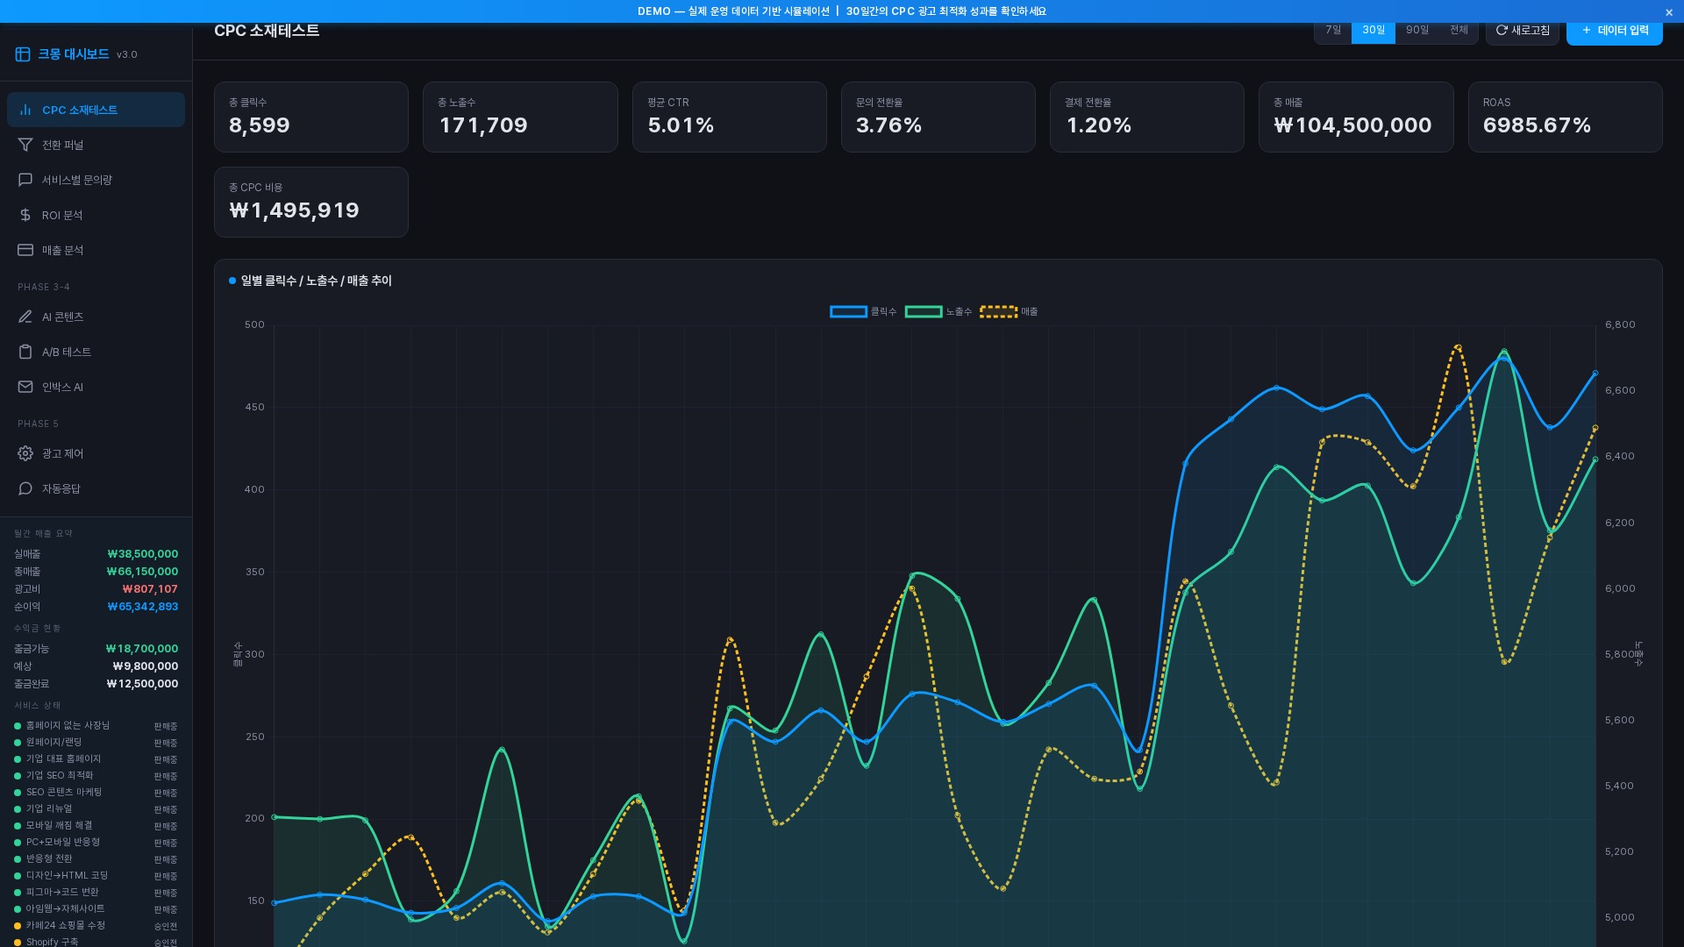
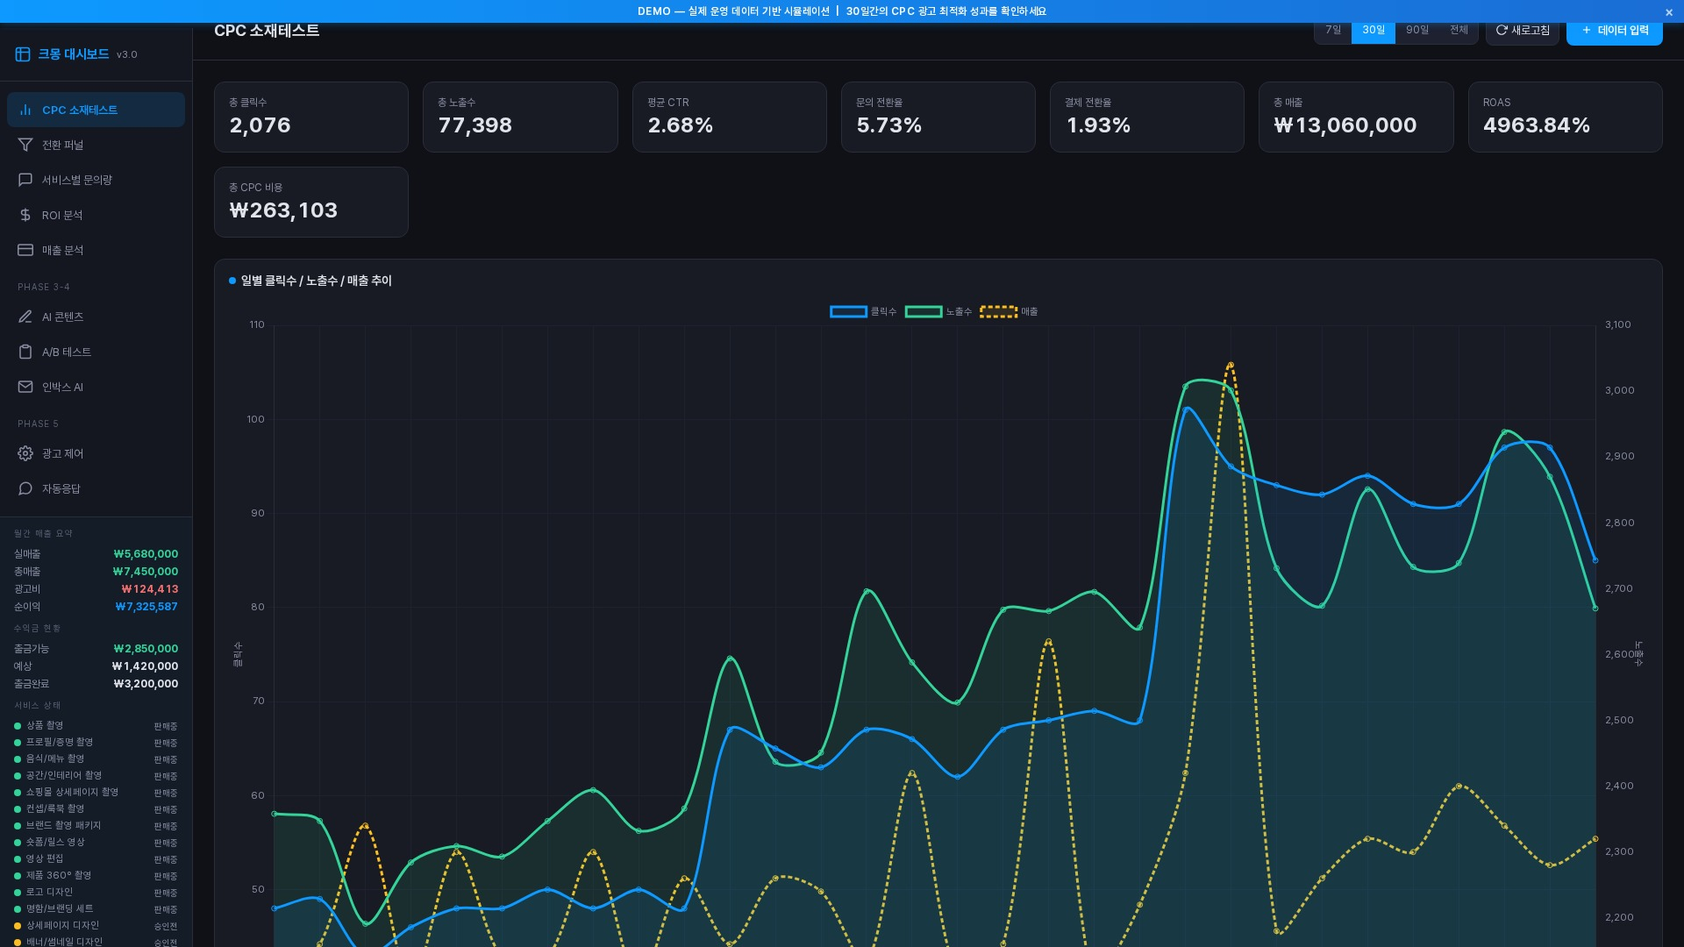
fix(kmong-dashboard): 촬영/디자인 서비스 20개 + 현실적 수치로 변경
- 홈페이지/SEO → 촬영/디자인 카테고리로 전면 교체
  (상품촬영, 음식촬영, 로고디자인, 상세페이지, 숏폼 등 20개)
- 현실적 크몽 프리랜서 수치: 월매출 1,300만, CTR 2.7%, CPC 26만
- 문의 내용도 촬영/디자인 맥락으로 변경
- 소재 변경 이력도 촬영 소재 A/B 테스트 내용으로
- 주문 금액: 3만~120만원 (촬영/디자인 실제 단가)

diff --git a/portfolio-sites/kmong-dashboard/index-demo.html b/portfolio-sites/kmong-dashboard/index-demo.html
@@ -1242,50 +1242,50 @@ const _dt = (daysAgo, h=10, m=30) => { const d = new Date(_today); d.setDate(d.g
 // === Product definitions ===
 const DEMO_DATA = {};
 DEMO_DATA.kmong_products = [
-  { product_id:'homepage_basic', product_name:'홈페이지 없는 사장님', category:'홈페이지', status:'active' },
-  { product_id:'onepage', product_name:'원페이지/랜딩', category:'홈페이지', status:'active' },
-  { product_id:'corporate_site', product_name:'기업 대표 홈페이지', category:'홈페이지', status:'active' },
-  { product_id:'seo_basic', product_name:'기업 SEO 최적화', category:'SEO', status:'active' },
-  { product_id:'seo_content', product_name:'SEO 콘텐츠 마케팅', category:'SEO', status:'active' },
-  { product_id:'renewal', product_name:'기업 리뉴얼', category:'홈페이지', status:'active' },
-  { product_id:'mobile_fix', product_name:'모바일 깨짐 해결', category:'반응형', status:'active' },
-  { product_id:'responsive', product_name:'PC+모바일 반응형', category:'반응형', status:'active' },
-  { product_id:'responsive_convert', product_name:'반응형 전환', category:'반응형', status:'active' },
-  { product_id:'design_html', product_name:'디자인→HTML 코딩', category:'퍼블리싱', status:'active' },
-  { product_id:'figma_html', product_name:'피그마→코드 변환', category:'퍼블리싱', status:'active' },
-  { product_id:'imweb_html', product_name:'아임웹→자체사이트', category:'퍼블리싱', status:'active' },
-  { product_id:'cafe24_fix', product_name:'카페24 쇼핑몰 수정', category:'쇼핑몰', status:'active' },
-  { product_id:'shopify_build', product_name:'Shopify 구축', category:'쇼핑몰', status:'active' },
-  { product_id:'maintenance', product_name:'월 유지보수', category:'유지보수', status:'active' },
-  { product_id:'speed_optimize', product_name:'속도 최적화', category:'유지보수', status:'active' },
-  { product_id:'portal_map', product_name:'포털/지도 등록', category:'마케팅', status:'active' },
-  { product_id:'blog_marketing', product_name:'블로그 마케팅', category:'마케팅', status:'active' },
-  { product_id:'insta_full', product_name:'인스타 A to Z', category:'SNS', status:'active' },
-  { product_id:'insta_core', product_name:'인스타 핵심 패키지', category:'SNS', status:'active' },
+  { product_id:'product_photo', product_name:'상품 촬영', category:'촬영', status:'active' },
+  { product_id:'profile_photo', product_name:'프로필/증명 촬영', category:'촬영', status:'active' },
+  { product_id:'food_photo', product_name:'음식/메뉴 촬영', category:'촬영', status:'active' },
+  { product_id:'interior_photo', product_name:'공간/인테리어 촬영', category:'촬영', status:'active' },
+  { product_id:'detail_photo', product_name:'쇼핑몰 상세페이지 촬영', category:'촬영', status:'active' },
+  { product_id:'concept_photo', product_name:'컨셉/룩북 촬영', category:'촬영', status:'active' },
+  { product_id:'brand_package', product_name:'브랜드 촬영 패키지', category:'촬영', status:'active' },
+  { product_id:'shortform', product_name:'숏폼/릴스 영상', category:'영상', status:'active' },
+  { product_id:'video_edit', product_name:'영상 편집', category:'영상', status:'active' },
+  { product_id:'product_3d', product_name:'제품 360° 촬영', category:'영상', status:'active' },
+  { product_id:'logo_design', product_name:'로고 디자인', category:'디자인', status:'active' },
+  { product_id:'namecard', product_name:'명함/브랜딩 세트', category:'디자인', status:'active' },
+  { product_id:'detail_design', product_name:'상세페이지 디자인', category:'디자인', status:'active' },
+  { product_id:'banner_design', product_name:'배너/썸네일 디자인', category:'디자인', status:'active' },
+  { product_id:'sns_design', product_name:'SNS 콘텐츠 디자인', category:'디자인', status:'active' },
+  { product_id:'package_design', product_name:'패키지/라벨 디자인', category:'디자인', status:'active' },
+  { product_id:'catalog', product_name:'카탈로그/브로슈어', category:'인쇄', status:'active' },
+  { product_id:'poster', product_name:'포스터/전단지', category:'인쇄', status:'active' },
+  { product_id:'retouch', product_name:'사진 보정/리터칭', category:'보정', status:'active' },
+  { product_id:'composite', product_name:'합성/배경제거', category:'보정', status:'active' },
 ];
 
 // === Generate CPC daily data (30 days x 14 products) ===
 const _productCpcProfile = {
-  homepage_basic: { baseImp: 480, baseCtr: 2.8, cpcUnit: 180, trend: 2.2 },
-  onepage: { baseImp: 420, baseCtr: 3.2, cpcUnit: 200, trend: 2.0 },
-  corporate_site: { baseImp: 350, baseCtr: 2.5, cpcUnit: 260, trend: 1.8 },
-  seo_basic: { baseImp: 280, baseCtr: 2.4, cpcUnit: 250, trend: 1.6 },
-  seo_content: { baseImp: 220, baseCtr: 2.1, cpcUnit: 230, trend: 1.4 },
-  renewal: { baseImp: 310, baseCtr: 2.6, cpcUnit: 220, trend: 1.9 },
-  mobile_fix: { baseImp: 260, baseCtr: 3.8, cpcUnit: 150, trend: 1.5 },
-  responsive: { baseImp: 380, baseCtr: 3.4, cpcUnit: 170, trend: 2.1 },
-  responsive_convert: { baseImp: 200, baseCtr: 2.9, cpcUnit: 190, trend: 1.3 },
-  design_html: { baseImp: 190, baseCtr: 2.3, cpcUnit: 210, trend: 1.1 },
-  figma_html: { baseImp: 170, baseCtr: 2.7, cpcUnit: 195, trend: 1.2 },
-  imweb_html: { baseImp: 160, baseCtr: 2.2, cpcUnit: 230, trend: 1.0 },
-  cafe24_fix: { baseImp: 180, baseCtr: 2.8, cpcUnit: 160, trend: 1.2 },
-  shopify_build: { baseImp: 240, baseCtr: 3.0, cpcUnit: 280, trend: 1.7 },
-  maintenance: { baseImp: 150, baseCtr: 2.0, cpcUnit: 140, trend: 0.9 },
-  speed_optimize: { baseImp: 200, baseCtr: 3.5, cpcUnit: 175, trend: 1.4 },
-  portal_map: { baseImp: 220, baseCtr: 3.1, cpcUnit: 130, trend: 1.5 },
-  blog_marketing: { baseImp: 300, baseCtr: 2.9, cpcUnit: 115, trend: 1.8 },
-  insta_full: { baseImp: 260, baseCtr: 3.3, cpcUnit: 120, trend: 1.6 },
-  insta_core: { baseImp: 210, baseCtr: 2.8, cpcUnit: 110, trend: 1.3 },
+  product_photo:  { baseImp: 180, baseCtr: 1.8, cpcUnit: 150, trend: 1.4 },
+  profile_photo:  { baseImp: 120, baseCtr: 2.1, cpcUnit: 130, trend: 1.2 },
+  food_photo:     { baseImp: 160, baseCtr: 2.0, cpcUnit: 160, trend: 1.3 },
+  interior_photo: { baseImp: 90,  baseCtr: 1.6, cpcUnit: 180, trend: 1.0 },
+  detail_photo:   { baseImp: 200, baseCtr: 2.3, cpcUnit: 140, trend: 1.5 },
+  concept_photo:  { baseImp: 70,  baseCtr: 1.5, cpcUnit: 200, trend: 0.8 },
+  brand_package:  { baseImp: 60,  baseCtr: 1.3, cpcUnit: 220, trend: 0.7 },
+  shortform:      { baseImp: 140, baseCtr: 2.5, cpcUnit: 120, trend: 1.6 },
+  video_edit:     { baseImp: 110, baseCtr: 1.9, cpcUnit: 140, trend: 1.1 },
+  product_3d:     { baseImp: 50,  baseCtr: 1.4, cpcUnit: 190, trend: 0.6 },
+  logo_design:    { baseImp: 150, baseCtr: 1.7, cpcUnit: 170, trend: 1.2 },
+  namecard:       { baseImp: 100, baseCtr: 2.2, cpcUnit: 110, trend: 1.0 },
+  detail_design:  { baseImp: 170, baseCtr: 2.0, cpcUnit: 150, trend: 1.3 },
+  banner_design:  { baseImp: 130, baseCtr: 2.4, cpcUnit: 100, trend: 1.4 },
+  sns_design:     { baseImp: 140, baseCtr: 2.6, cpcUnit: 90,  trend: 1.5 },
+  package_design: { baseImp: 80,  baseCtr: 1.5, cpcUnit: 180, trend: 0.9 },
+  catalog:        { baseImp: 60,  baseCtr: 1.3, cpcUnit: 200, trend: 0.7 },
+  poster:         { baseImp: 90,  baseCtr: 1.8, cpcUnit: 120, trend: 1.0 },
+  retouch:        { baseImp: 160, baseCtr: 2.8, cpcUnit: 80,  trend: 1.4 },
+  composite:      { baseImp: 100, baseCtr: 2.2, cpcUnit: 90,  trend: 1.1 },
 };
 
 DEMO_DATA.kmong_cpc_daily = [];
@@ -1293,8 +1293,8 @@ for (let day = 29; day >= 0; day--) {
   const date = _d(day);
   const phase = day >= 20 ? 0 : day >= 10 ? 1 : 2; // 0=early, 1=mid, 2=optimized
   for (const [pid, prof] of Object.entries(_productCpcProfile)) {
-    // CTR improves over time: phase0 = base, phase1 = +60%, phase2 = +120-180%
-    const ctrMult = phase === 0 ? 1.0 : phase === 1 ? 1.6 : 2.2 + Math.random() * 0.6;
+    // CTR improves over time: phase0 = base, phase1 = +25%, phase2 = +50-70%
+    const ctrMult = phase === 0 ? 1.0 : phase === 1 ? 1.25 : 1.5 + Math.random() * 0.2;
     const impVariance = 0.7 + Math.random() * 0.6;
     const impressions = Math.round(prof.baseImp * impVariance * (1 + phase * 0.1));
     const ctr = +(prof.baseCtr * ctrMult * (0.85 + Math.random() * 0.3)).toFixed(2);
@@ -1314,13 +1314,14 @@ const _surnames = ['김','이','박','최','정','강','조','윤','장','임','
 const _names = ['민수','지영','현우','수진','영호','미경','태희','준호','소연','동훈','지혜','상우','은지','민재','혜진','성호','유진','재현','보라','도윤'];
 const _inquiryTypes = ['message','order_inquiry','custom_request'];
 const _inquiryNotes = [
-  '홈페이지 제작 비용이 어느 정도인지 문의드립니다','기존 사이트 리뉴얼 견적 부탁합니다','반응형으로 전환하고 싶습니다',
-  '급합니다! 모바일에서 사이트가 깨져요','SEO 최적화 상담 원합니다','원페이지 랜딩 제작 문의','카페24 쇼핑몰 수정 가능한가요?',
-  '디자인 시안을 HTML로 코딩해주실 수 있나요?','아임웹에서 자체 사이트로 이전하고 싶어요','월 유지보수 비용 문의',
-  '인스타그램 운영 대행 비용 궁금합니다','포털 지도 등록 대행 가능한가요?','기업 홈페이지 리뉴얼 문의',
-  '결제하려고 합니다 진행 가능한가요?','빠른 작업 가능하신지요? 급한 건입니다','가격이 좀 비싼 것 같은데 조정 가능할까요?',
-  '포트폴리오 보고 연락드립니다','지인 소개로 연락드립니다 제작 문의','추가 수정 가능한지 문의드립니다',
-  '완벽하게 만들어주셔서 감사합니다! 추가 작업 문의','반응형 홈페이지 견적 부탁드립니다','모바일 최적화 작업 비용이 궁금합니다',
+  '상품 촬영 10컷 기준 비용이 궁금합니다','쇼핑몰 상세페이지용 촬영 견적 부탁드려요','음식 메뉴 촬영 가능할까요? 카페 운영중입니다',
+  '프로필 사진 촬영 예약하고 싶습니다','인테리어 촬영 가능한 날짜가 언제인가요?','로고 디자인 의뢰하려고 합니다',
+  '명함이랑 간판 디자인 같이 하면 할인되나요?','상세페이지 디자인 포트폴리오 보고 문의드립니다','배너 5장 제작 비용 문의합니다',
+  '인스타 피드 디자인 월 단위로 가능한가요?','제품 사진 배경제거 50장 견적 부탁드립니다','숏폼 영상 촬영+편집 같이 가능하신가요?',
+  '카탈로그 8페이지 제작 문의드립니다','패키지 디자인 시안 몇 개 나오나요?','브랜드 촬영 패키지가 뭐가 포함되는지 궁금합니다',
+  '결제하려고 합니다 바로 진행 가능한가요?','급한 건인데 이번주 내 촬영 가능하신지요?','가격 조정 가능할까요? 물량이 많습니다',
+  '포트폴리오 보고 연락드립니다 너무 좋아요','지인 소개로 왔습니다 상품촬영 문의','이전 작업 너무 만족했어요 추가 의뢰하려구요',
+  '사진 보정만 따로 맡길 수 있나요?','360도 회전 촬영 가능하신가요?','전단지 양면 디자인 급하게 필요합니다',
 ];
 const _productIds = DEMO_DATA.kmong_products.map(p => p.product_id);
 const _statuses = ['pending','quoted','paid'];
@@ -1333,8 +1334,8 @@ let _inqId = 1;
 for (let day = 29; day >= 0; day--) {
   // More inquiries in later days (optimization brings WAY more traffic)
   const phase = day >= 20 ? 0 : day >= 10 ? 1 : 2;
-  const countBase = phase === 0 ? 5 : phase === 1 ? 9 : 14;
-  const count = countBase + Math.floor(Math.random() * 4);
+  const countBase = phase === 0 ? 2 : phase === 1 ? 3 : 5;
+  const count = countBase + Math.floor(Math.random() * 2);
   for (let i = 0; i < count; i++) {
     const h = 8 + Math.floor(Math.random() * 12);
     const m = Math.floor(Math.random() * 60);
@@ -1364,14 +1365,13 @@ for (let day = 29; day >= 0; day--) {
 
 // === Generate orders (75 orders) ===
 const _orderAmounts = {
-  homepage_basic: [500000,800000,1200000], onepage: [350000,500000,800000], corporate_site: [1500000,2500000,3500000],
-  seo_basic: [800000,1200000,1800000], seo_content: [600000,1000000,1500000],
-  renewal: [800000,1200000,2000000], mobile_fix: [300000,500000,800000], responsive: [600000,1000000,1500000],
-  responsive_convert: [500000,700000,1000000], design_html: [500000,800000,1200000], figma_html: [400000,700000,1000000],
-  imweb_html: [600000,900000,1200000], cafe24_fix: [350000,500000,800000], shopify_build: [1000000,1800000,2500000],
-  maintenance: [300000,500000,800000], speed_optimize: [400000,600000,900000],
-  portal_map: [250000,400000,600000], blog_marketing: [500000,800000,1200000],
-  insta_full: [800000,1200000,1800000], insta_core: [500000,700000,1000000],
+  product_photo:  [150000,250000,400000], profile_photo: [80000,150000,250000], food_photo: [200000,350000,500000],
+  interior_photo: [300000,500000,800000], detail_photo: [200000,350000,500000], concept_photo: [300000,500000,800000],
+  brand_package:  [500000,800000,1200000], shortform: [150000,300000,500000], video_edit: [100000,200000,350000],
+  product_3d:     [200000,350000,500000], logo_design: [150000,300000,500000], namecard: [50000,100000,200000],
+  detail_design:  [200000,350000,500000], banner_design: [50000,100000,200000], sns_design: [100000,200000,350000],
+  package_design: [300000,500000,800000], catalog: [300000,500000,800000], poster: [80000,150000,250000],
+  retouch: [30000,80000,150000], composite: [50000,100000,200000],
 };
 const _orderStatuses = ['completed','completed','completed','completed','completed','completed','completed','in_progress','in_progress','cancelled'];
 
@@ -1379,8 +1379,8 @@ DEMO_DATA.kmong_orders = [];
 let _ordId = 20001;
 for (let day = 28; day >= 0; day--) {
   const phase = day >= 20 ? 0 : day >= 10 ? 1 : 2;
-  const countBase = phase === 0 ? 2 : phase === 1 ? 4 : 6;
-  const count = countBase + Math.floor(Math.random() * 2);
+  const countBase = phase === 0 ? 1 : phase === 1 ? 1 : 2;
+  const count = countBase + (Math.random() > 0.4 ? 1 : 0);
   for (let i = 0; i < count; i++) {
     const pid = _productIds[Math.floor(Math.random() * _productIds.length)];
     const amounts = _orderAmounts[pid];
@@ -1399,39 +1399,39 @@ for (let day = 28; day >= 0; day--) {
 
 // === Creative changes (22 changes) ===
 DEMO_DATA.kmong_creative_changes = [
-  { id:1, product_id:'homepage_basic', change_date:_d(18), change_type:'title', old_value:'홈페이지 없는 사장님을 위한 솔루션', new_value:'사장님, 아직 홈페이지 없으세요? | 3일 완성' },
-  { id:2, product_id:'onepage', change_date:_d(17), change_type:'thumbnail', old_value:'기존 썸네일', new_value:'Before/After 비교 썸네일' },
-  { id:3, product_id:'responsive', change_date:_d(16), change_type:'title', old_value:'반응형 홈페이지 제작', new_value:'PC+모바일 완벽 반응형 | 수정무제한' },
-  { id:4, product_id:'seo_basic', change_date:_d(15), change_type:'description', old_value:'SEO 최적화 서비스', new_value:'구글/네이버 상위노출 | 월 리포트 제공' },
-  { id:5, product_id:'mobile_fix', change_date:_d(14), change_type:'title', old_value:'모바일 깨짐 수정', new_value:'모바일 깨짐 24시간 내 해결 | 원인분석 무료' },
-  { id:6, product_id:'renewal', change_date:_d(13), change_type:'thumbnail', old_value:'기존 썸네일', new_value:'최신 트렌드 리뉴얼 사례 썸네일' },
-  { id:7, product_id:'design_html', change_date:_d(12), change_type:'title', old_value:'디자인 퍼블리싱', new_value:'디자인→HTML 완벽 코딩 | 시맨틱+반응형' },
-  { id:8, product_id:'insta_full', change_date:_d(11), change_type:'description', old_value:'인스타그램 운영', new_value:'인스타 팔로워 1000명 달성 보장 | A to Z 패키지' },
-  { id:9, product_id:'cafe24_fix', change_date:_d(10), change_type:'title', old_value:'카페24 수정', new_value:'카페24 쇼핑몰 디자인/기능 수정 전문' },
-  { id:10, product_id:'homepage_basic', change_date:_d(8), change_type:'description', old_value:'기존 설명', new_value:'✅ 500건+ 제작 경험 ✅ 수정 무제한 ✅ 3일 완성' },
-  { id:11, product_id:'onepage', change_date:_d(7), change_type:'title', old_value:'원페이지 제작', new_value:'전환율 200% UP 원페이지 | 마케팅 특화' },
-  { id:12, product_id:'responsive', change_date:_d(6), change_type:'thumbnail', old_value:'반응형 이미지', new_value:'디바이스별 미리보기 GIF 썸네일' },
-  { id:13, product_id:'portal_map', change_date:_d(5), change_type:'title', old_value:'포털 등록', new_value:'네이버/카카오 지도 등록 | 당일 완료' },
-  { id:14, product_id:'maintenance', change_date:_d(5), change_type:'description', old_value:'유지보수', new_value:'월 5만원부터 | 장애대응 1시간 내 처리' },
-  { id:15, product_id:'seo_basic', change_date:_d(4), change_type:'thumbnail', old_value:'SEO 썸네일', new_value:'순위 상승 그래프 + 실 사례 썸네일' },
-  { id:16, product_id:'imweb_html', change_date:_d(4), change_type:'title', old_value:'아임웹 코딩', new_value:'아임웹→자체사이트 이전 | SEO 보존' },
-  { id:17, product_id:'insta_core', change_date:_d(3), change_type:'title', old_value:'인스타 핵심', new_value:'인스타 릴스+스토리 핵심 패키지' },
-  { id:18, product_id:'responsive_convert', change_date:_d(3), change_type:'description', old_value:'반응형 전환', new_value:'기존 PC사이트를 모바일 완벽 대응으로 | 구조 유지' },
-  { id:19, product_id:'homepage_basic', change_date:_d(2), change_type:'thumbnail', old_value:'기존 썸네일', new_value:'리얼 후기 강조 + 작업 전/후 비교 썸네일' },
-  { id:20, product_id:'renewal', change_date:_d(2), change_type:'title', old_value:'사이트 리뉴얼', new_value:'2026 트렌드 리뉴얼 | 매출 2배 성장 사례' },
-  { id:21, product_id:'mobile_fix', change_date:_d(1), change_type:'description', old_value:'깨짐 해결', new_value:'무료 진단 → 원인 분석 → 24시간 내 해결' },
-  { id:22, product_id:'onepage', change_date:_d(1), change_type:'thumbnail', old_value:'랜딩 썸네일', new_value:'CTA 강조 + 전환율 데이터 포함 썸네일' },
+  { id:1, product_id:'product_photo', change_date:_d(18), change_type:'title', old_value:'상품 촬영 해드립니다', new_value:'쇼핑몰 매출 올리는 상품 촬영 | Before/After 공개' },
+  { id:2, product_id:'detail_photo', change_date:_d(17), change_type:'thumbnail', old_value:'기존 촬영 썸네일', new_value:'상세페이지 Before/After 비교 GIF 썸네일' },
+  { id:3, product_id:'food_photo', change_date:_d(16), change_type:'title', old_value:'음식 사진 촬영', new_value:'맛있어 보이는 음식 촬영 | 카페·레스토랑 전문' },
+  { id:4, product_id:'logo_design', change_date:_d(15), change_type:'description', old_value:'로고 디자인합니다', new_value:'브랜드 아이덴티티 설계 | 시안 3개 + 수정 무제한' },
+  { id:5, product_id:'profile_photo', change_date:_d(14), change_type:'title', old_value:'프로필 촬영', new_value:'링크드인/이력서용 프로필 촬영 | 당일 보정' },
+  { id:6, product_id:'shortform', change_date:_d(13), change_type:'thumbnail', old_value:'영상 썸네일', new_value:'릴스 조회수 10만+ 달성 사례 썸네일' },
+  { id:7, product_id:'detail_design', change_date:_d(12), change_type:'title', old_value:'상세페이지 제작', new_value:'전환율 높은 상세페이지 | 실 데이터 공개' },
+  { id:8, product_id:'banner_design', change_date:_d(11), change_type:'description', old_value:'배너 디자인', new_value:'클릭률 2배↑ 배너 | 쇼핑몰·SNS·스마트스토어' },
+  { id:9, product_id:'retouch', change_date:_d(10), change_type:'title', old_value:'사진 보정', new_value:'프로 리터칭 | 인물·상품·음식 전문 보정' },
+  { id:10, product_id:'product_photo', change_date:_d(8), change_type:'description', old_value:'기존 설명', new_value:'✅ 300건+ 촬영 ✅ 당일 납품 ✅ 재촬영 무료' },
+  { id:11, product_id:'sns_design', change_date:_d(7), change_type:'title', old_value:'SNS 디자인', new_value:'인스타 피드 통일감 | 월 구독 패키지' },
+  { id:12, product_id:'interior_photo', change_date:_d(6), change_type:'thumbnail', old_value:'공간 이미지', new_value:'와이드앵글 공간 촬영 포트폴리오 썸네일' },
+  { id:13, product_id:'namecard', change_date:_d(5), change_type:'title', old_value:'명함 디자인', new_value:'고급 명함+브랜딩 세트 | 인쇄 연동' },
+  { id:14, product_id:'composite', change_date:_d(5), change_type:'description', old_value:'합성 작업', new_value:'누끼따기 100장 3만원 | 24시간 내 납품' },
+  { id:15, product_id:'video_edit', change_date:_d(4), change_type:'thumbnail', old_value:'편집 썸네일', new_value:'유튜브 조회수 높은 편집 스타일 사례 썸네일' },
+  { id:16, product_id:'package_design', change_date:_d(4), change_type:'title', old_value:'패키지 디자인', new_value:'제품이 팔리는 패키지 | 인쇄+목업 포함' },
+  { id:17, product_id:'catalog', change_date:_d(3), change_type:'title', old_value:'카탈로그 제작', new_value:'브로슈어/카탈로그 | PDF+인쇄 납품' },
+  { id:18, product_id:'brand_package', change_date:_d(3), change_type:'description', old_value:'브랜드 촬영', new_value:'로고+촬영+상세페이지 올인원 | 신규 브랜드 런칭' },
+  { id:19, product_id:'food_photo', change_date:_d(2), change_type:'thumbnail', old_value:'기존 썸네일', new_value:'침 넘어가는 음식 촬영 Before/After 썸네일' },
+  { id:20, product_id:'concept_photo', change_date:_d(2), change_type:'title', old_value:'컨셉 촬영', new_value:'룩북·화보 촬영 | 스튜디오+야외 선택' },
+  { id:21, product_id:'detail_photo', change_date:_d(1), change_type:'description', old_value:'상세페이지 촬영', new_value:'모델+제품+배경 세팅 | 쇼핑몰 전환율 37%↑ 사례' },
+  { id:22, product_id:'poster', change_date:_d(1), change_type:'thumbnail', old_value:'포스터 썸네일', new_value:'실제 인쇄 시안 + 목업 적용 썸네일' },
 ];
 
 // === Profits summary ===
 DEMO_DATA.kmong_profits_summary = [{
-  id:1, available_profit: 18700000, expected_profit: 9800000, withdrawn_profit: 12500000,
-  total_revenue: 41000000, crawled_at: _dt(0, 9, 0)
+  id:1, available_profit: 2850000, expected_profit: 1420000, withdrawn_profit: 3200000,
+  total_revenue: 7470000, crawled_at: _dt(0, 9, 0)
 }];
 
 // === Profits monthly ===
 DEMO_DATA.kmong_profits_monthly = [{
-  id:1, term: _today.toISOString().slice(0,7), completed_amount: 38500000
+  id:1, term: _today.toISOString().slice(0,7), completed_amount: 5680000
 }];
 
 // === Profits transactions (join with orders for sales tab) ===
